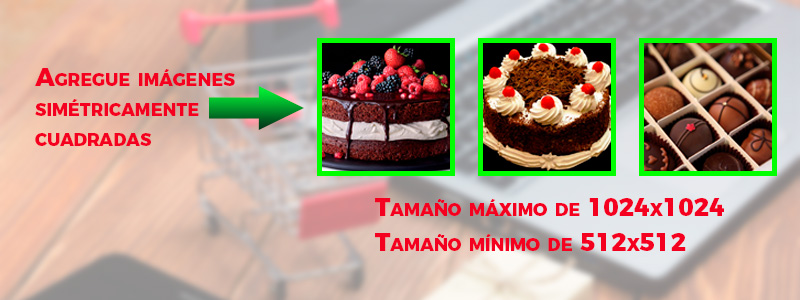
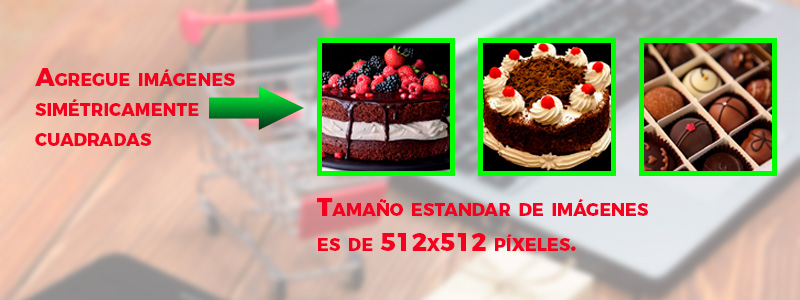
Mod. cambios y revisión de ayudas de los productos/index.html

Changed region(s): [[0.375, 0.66, 0.9062, 0.72], [0.375, 0.78, 0.875, 0.84]]

diff --git a/AngularFrontEnd/app/view/servicios/tiendavirtual/tienda/index.html b/AngularFrontEnd/app/view/servicios/tiendavirtual/tienda/index.html
@@ -766,9 +766,9 @@
                                     <div class="post_content">
                         
                                         <h1>Números telefónicos de contacto</h1>
-                                        <p>1.- Ingrese sus datos actualizados de contacto.
-                                        2.- Considere colocar contactos referentes a su tienda o empresa.
-                                        3.- Se recomienda colocar los contactos establecidos en el formulario.<br>      
+                                        <p>1.- Ingrese sus datos actualizados de contacto.<br>
+                                        2.- Considere colocar contactos referentes a su tienda o empresa.<br>
+                                        3.- Se recomienda colocar los contactos establecidos en el formulario.      
                                         </p>
                                     </div>
                                 </div>
@@ -999,7 +999,7 @@
                         
                                         <h1>Catálogo de Productos.</h1>
                                         <p>1.- Coloque imágenes nítidas y reales de sus productos.<br>
-                                        2.- Recuerde subir sus imagenes en formato JPG en un tamaño NO MAYOR a 512x512 píxeles.<br>
+                                        2.- Recuerde subir sus archivos en formato requerido.<br>
                                         3.- Se recomienda encarecidamente subir imágenes en el tamaño estipulado.      
                                         </p>
                                     </div>

diff --git a/AngularFrontEnd/app/view/servicios/tiendavirtual/productos/index.html b/AngularFrontEnd/app/view/servicios/tiendavirtual/productos/index.html
@@ -408,8 +408,9 @@
                                         <div class="post_content">
 
                                             <h1>Recomendaciones para subir imágenes</h1>
-                                            <p>1.- Para la óptima visualización de imágenes de sus productos, suba imágenes simétricamente cuadradas.<br> 2.- Se recomienda que mantenga los tamaños establecidos para las imágenes.<br> 3.- El tamaño de las
-                                                imágenes es de un tamaño máximo de 1024x1024 y un mínimo de 512x512 PÍXELES.
+                                            <p> 1.- Para la óptima visualización de imágenes de sus productos, suba imágenes simétricamente cuadradas.<br> 
+                                                2.- Se recomienda que mantenga el tamaño establecido para las imágenes.<br> 
+                                                3.- Suba imágenes del producto nítidas y sin obstrucciones.
                                             </p>
                                         </div>
                                     </div>
